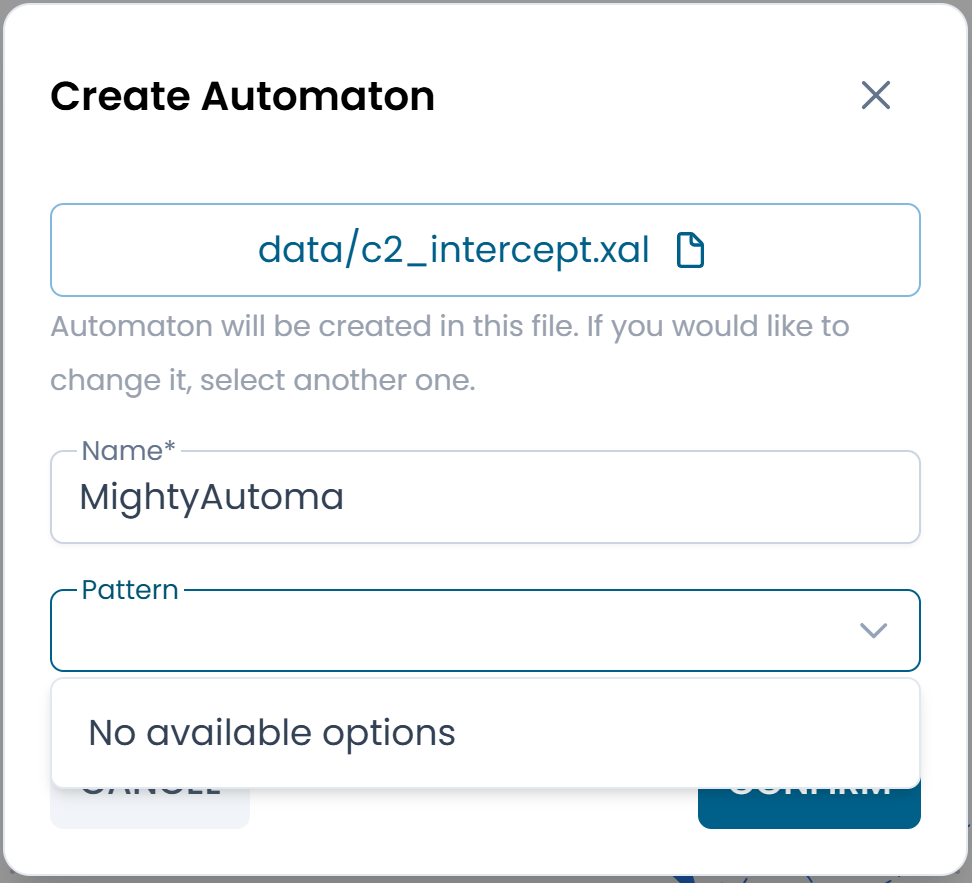
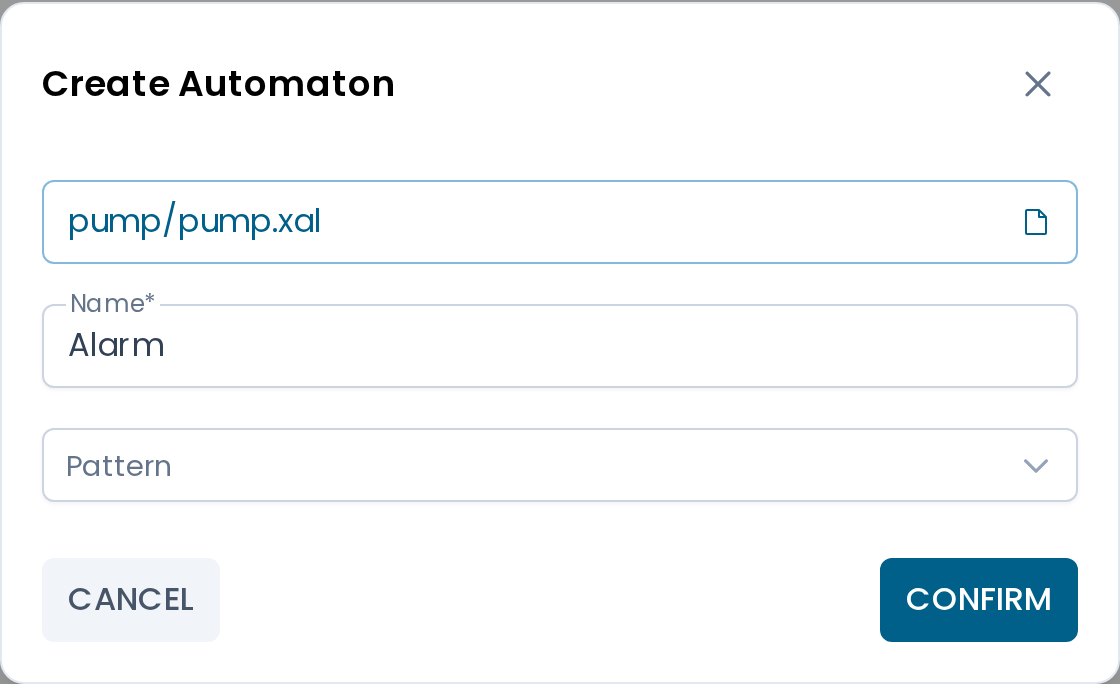
docs: aggiorna la pagina Gestione degli automi
Gli automi si creano, rinominano ed eliminano dal menu dell'Explorer
(tasto destro o pulsante ⋮), non più dal pannello Automata Management.
Eliminazione con Restore automaton fino al commit, rinomina annullabile
con Ctrl+Z, campo Pattern non ancora disponibile, tolta la sezione
Family Trees e Correlations. Screenshot nuovi, link da L'Interfaccia.

Fixes #13

diff --git a/docs/designer/automata/managing.it.md b/docs/designer/automata/managing.it.md
@@ -1,57 +1,66 @@
 # Gestione degli Automi
 
-Il pannello **Automata Management** fornisce strumenti per creare e organizzare gli automi all'interno del file attualmente caricato.
+Crei, rinomini ed elimini gli automi dall'**Explorer** nella barra laterale sinistra.
 
-Per aprirlo, fai clic sull'**icona robot** nella barra laterale sinistra.
+Fai clic con il tasto destro su un file XAL o su un automa, oppure sul pulsante **⋮** in fondo alla sua riga, per aprirne il menu. Il tasto destro sul tab di un automa nel canvas apre le stesse azioni dell'automa.
 
-![Pannello Automata Management](../../images/designer/automata/management_panel.png)
+![Il menu di un automa nell'Explorer](../../images/designer/automata/automaton_context_menu.png)
 /// caption
-Fig.1 - Il pannello Automata Management
+Fig.1 - Il menu di un automa nell'Explorer
 ///
+
+Per creare un nuovo file XAL, fai clic su **+** in fondo all'Explorer. Il nuovo file contiene già un automa con lo stesso nome del file.
 
 ---
 
 ## Creare un automa
 
-Fai clic su **Create** per aprire la finestra di dialogo di creazione.
+Fai clic con il tasto destro sul file XAL e scegli **New automaton**. Si apre la finestra **Create Automaton**.
 
-![Finestra di dialogo Create Automaton](../../images/designer/automata/create_dialog.png)
+![Finestra Create Automaton](../../images/designer/automata/create_dialog.png)
 /// caption
-Fig.2 - La finestra di dialogo Create Automaton
+Fig.2 - La finestra Create Automaton
 ///
-
-Compila i seguenti campi:
 
 | Campo | Descrizione |
 |---|---|
-| **File** | Il file XAL in cui verrà creato l'automa. Pre-compilato con il file attualmente aperto. Fai clic sull'icona file per selezionarne uno diverso. |
-| **Name** | L'identificatore univoco dell'automa all'interno del file. Obbligatorio. |
-| **Pattern** | Un template opzionale da usare come punto di partenza. *(Coming soon)* |
+| **File** | Il file XAL in cui viene creato l'automa. Già compilato con il file su cui hai fatto clic. Fai clic sull'icona del file per sceglierne un altro. |
+| **Name** | Il nome dell'automa. Obbligatorio. Usa solo lettere e numeri. Deve essere unico nel file. |
+| **Pattern** | Non ancora disponibile. |
 
-Fai clic su **Confirm** per creare l'automa. Si apre immediatamente come nuovo tab nel canvas con un diagramma vuoto.
+Fai clic su **Confirm**. L'automa si apre in un nuovo tab, con un solo stato `init` che è già lo stato iniziale.
 
 ---
 
 ## Rinominare un automa
 
-Fai clic su **Rename** per cambiare il nome dell'automa attualmente attivo.
+Fai clic con il tasto destro sull'automa e scegli **Rename**. L'automa si apre nel suo tab e si apre la finestra **Edit Automaton**.
+
+Scrivi il nuovo nome e fai clic su **Save**. Valgono le stesse regole della creazione: solo lettere e numeri, unico nel file.
+
+Per annullare una rinomina, premi **Ctrl+Z** nel tab dell'automa.
 
 !!! warning
-    Rinominare un automa aggiorna il suo identificatore nel file. Qualsiasi altro automa che vi fa riferimento per nome — tramite una `TransitionNew` o una query Metric — dovrà essere aggiornato manualmente.
+    Il designer non aggiorna i riferimenti al vecchio nome. Ogni altro automa che fa riferimento a questo per nome, tramite una `TransitionNew` o una query Metric, va aggiornato a mano.
 
 ---
 
 ## Eliminare un automa
 
-Fai clic su **Delete** per rimuovere l'automa attualmente attivo dal file.
+Fai clic con il tasto destro sull'automa e scegli **Delete**. Conferma con **Delete**. Il tab dell'automa si chiude.
 
-!!! warning
-    L'eliminazione è immediata e non può essere annullata all'interno del designer. Esegui il Commit delle modifiche prima di eliminare se vuoi preservare la possibilità di ripristinare l'automa dal controllo versione.
+Non puoi annullare un'eliminazione con **Ctrl+Z**. Cosa succede dopo dipende dall'automa:
+
+- **Un automa che è nel repository** resta nell'Explorer, segnato come rimosso, fino al commit. Per recuperarlo, fai clic con il tasto destro e scegli **Restore automaton**, poi conferma con **Restore**. L'automa torna alla versione del repository.
+- **Un automa che hai creato e non hai mai committato** va perso.
+
+L'eliminazione arriva nel repository solo quando fai il [commit](../publishing/commit.md).
 
 ---
 
-## Family Trees e Correlations
+## Scartare le modifiche a un automa
 
-Le opzioni **Family Trees** e **Correlations** nel pannello non sono ancora attive.
+Quando un automa ha modifiche non committate, il suo menu mostra anche **Discard changes**. Vedi [Commit e Push](../publishing/commit.md#chiudere-un-tab-con-modifiche-non-committate).
 
-Quando disponibili, forniranno viste filtrate del Process Overview focalizzate rispettivamente sulle relazioni genitore-figlio e sull'intero grafico delle correlazioni dell'automa selezionato.
+!!! note
+    Mentre Arianna rigenera un file XAL, le azioni sul file e sui suoi automi sono disattivate. Vedi [Generare l'XAL](../arianna/generating_xal.md#mentre-lxal-viene-generato).

diff --git a/docs/designer/automata/managing.md b/docs/designer/automata/managing.md
@@ -1,57 +1,66 @@
 # Managing Automata
 
-The **Automata Management** panel provides tools for creating and organizing the automata within the currently loaded file.
+You create, rename and delete automata from the **Explorer** in the left sidebar.
 
-To open it, click the **robot icon** in the left sidebar.
+Right-click a XAL file or an automaton, or click the **⋮** button at the end of its row, to open its menu. Right-clicking an automaton tab on the canvas opens the same automaton actions.
 
-![Automata Management panel](../../images/designer/automata/management_panel.png)
+![The menu of an automaton in the Explorer](../../images/designer/automata/automaton_context_menu.png)
 /// caption
-Fig.1 - The Automata Management panel
+Fig.1 - The menu of an automaton in the Explorer
 ///
+
+To create a new XAL file, click **+** at the bottom of the Explorer. The new file already contains one automaton with the same name as the file.
 
 ---
 
 ## Creating an automaton
 
-Click **Create** to open the creation dialog.
+Right-click the XAL file and select **New automaton**. The **Create Automaton** dialog opens.
 
 ![Create Automaton dialog](../../images/designer/automata/create_dialog.png)
 /// caption
 Fig.2 - The Create Automaton dialog
 ///
 
-Fill in the following fields:
-
 | Field | Description |
 |---|---|
-| **File** | The XAL file in which the automaton will be created. Pre-filled with the currently open file. Click the file icon to select a different one. |
-| **Name** | The unique identifier of the automaton within the file. Required. |
-| **Pattern** | An optional template to use as a starting point. *(Coming soon)* |
+| **File** | The XAL file in which the automaton is created. Pre-filled with the file you right-clicked. Click the file icon to select a different one. |
+| **Name** | The name of the automaton. Required. Use letters and numbers only. It must be unique in the file. |
+| **Pattern** | Not available yet. |
 
-Click **Confirm** to create the automaton. It opens immediately as a new tab on the canvas with an empty diagram.
+Click **Confirm**. The automaton opens in a new tab, with a single state `init` that is already the initial state.
 
 ---
 
 ## Renaming an automaton
 
-Click **Rename** to change the name of the currently active automaton.
+Right-click the automaton and select **Rename**. The automaton opens in its tab and the **Edit Automaton** dialog opens.
+
+Type the new name and click **Save**. The same rules as for creation apply: letters and numbers only, unique in the file.
+
+To undo a rename, press **Ctrl+Z** in the automaton tab.
 
 !!! warning
-    Renaming an automaton updates its identifier in the file. Any other automaton that references this one by name — through a `TransitionNew` or a metric query — will need to be updated manually.
+    The designer does not update the references to the old name. Any other automaton that references this one by name, through a `TransitionNew` or a metric query, must be updated manually.
 
 ---
 
 ## Deleting an automaton
 
-Click **Delete** to remove the currently active automaton from the file.
+Right-click the automaton and select **Delete**. Confirm with **Delete**. The tab of the automaton closes.
 
-!!! warning
-    Deletion is immediate and cannot be undone within the designer. Commit your changes before deleting if you want to preserve the ability to restore the automaton from version control.
+You cannot undo a deletion with **Ctrl+Z**. What happens next depends on the automaton:
+
+- **An automaton that is in the repository** stays in the Explorer, marked as removed, until you commit. To get it back, right-click it and select **Restore automaton**, then confirm with **Restore**. The automaton goes back to the version in the repository.
+- **An automaton you created and never committed** is lost.
+
+The deletion reaches the repository only when you [commit](../publishing/commit.md).
 
 ---
 
-## Family Trees and Correlations
+## Discarding the changes to an automaton
 
-The **Family Trees** and **Correlations** options in the panel are not yet active.
+When an automaton has changes that are not committed, its menu also shows **Discard changes**. See [Commit and Push](../publishing/commit.md#closing-a-tab-with-uncommitted-changes).
 
-When available, they will provide filtered views of the Process Overview focused respectively on parent-child relationships and on the full correlation graph of the selected automaton.
+!!! note
+    While Arianna regenerates a XAL file, the actions on that file and on its automata are disabled. See [Generating XAL](../arianna/generating_xal.md#while-the-xal-is-generated).

diff --git a/docs/designer/getting_started/interface.it.md b/docs/designer/getting_started/interface.it.md
@@ -41,7 +41,7 @@ La doppia freccia in alto riduce il pannello aperto alle sole icone, e lo riapre
 
 Global States, Clock Vars, New State e New Transition sono attivi solo quando un automa è aperto.
 
-Per creare, rinominare o eliminare un automa, fai clic con il tasto destro su un file o su un automa nell'Explorer. In fondo all'Explorer, **Upload File** carica un file XAL dal tuo computer e **+** crea un nuovo file XAL.
+Per creare, rinominare o eliminare un automa, fai clic con il tasto destro su un file o su un automa nell'Explorer (vedi [Gestione degli Automi](../automata/managing.md)). In fondo all'Explorer, **Upload File** carica un file XAL dal tuo computer e **+** crea un nuovo file XAL.
 
 ---
 

diff --git a/docs/designer/getting_started/interface.md b/docs/designer/getting_started/interface.md
@@ -41,7 +41,7 @@ The double arrow at the top collapses the open panel to the icons only, and expa
 
 Global States, Clock Vars, New State and New Transition are active only when an automaton is open.
 
-To create, rename or delete an automaton, right-click a file or an automaton in the Explorer. At the bottom of the Explorer, **Upload File** loads a XAL file from your computer, and **+** creates a new XAL file.
+To create, rename or delete an automaton, right-click a file or an automaton in the Explorer (see [Managing Automata](../automata/managing.md)). At the bottom of the Explorer, **Upload File** loads a XAL file from your computer, and **+** creates a new XAL file.
 
 ---
 
